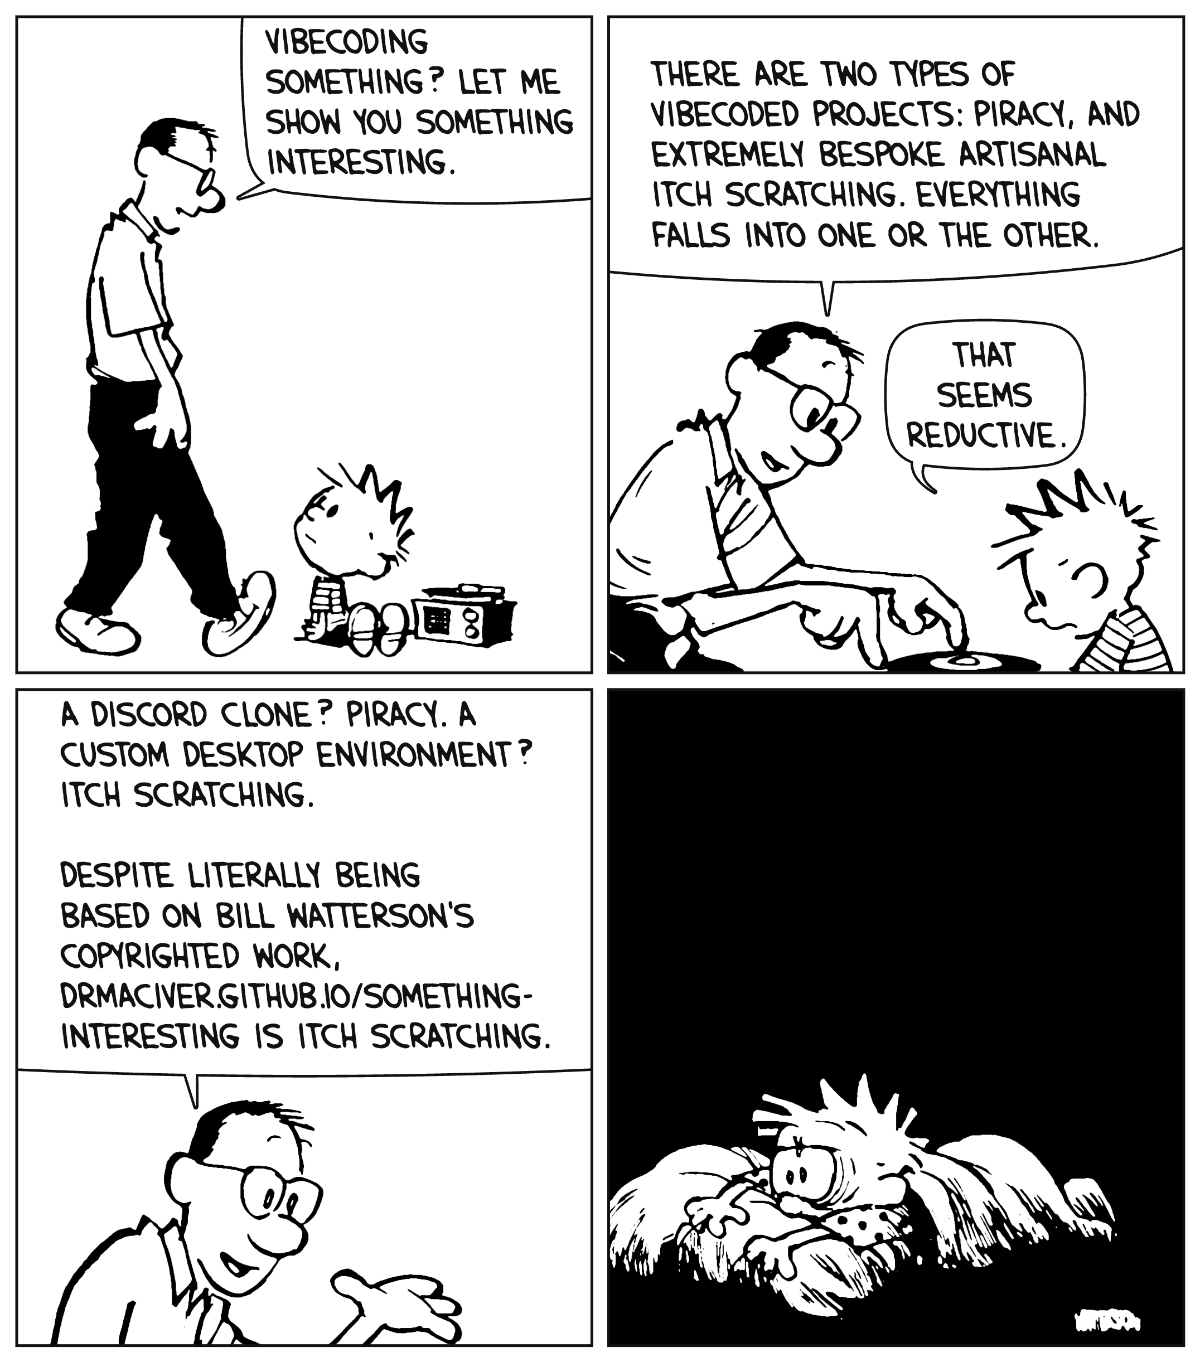
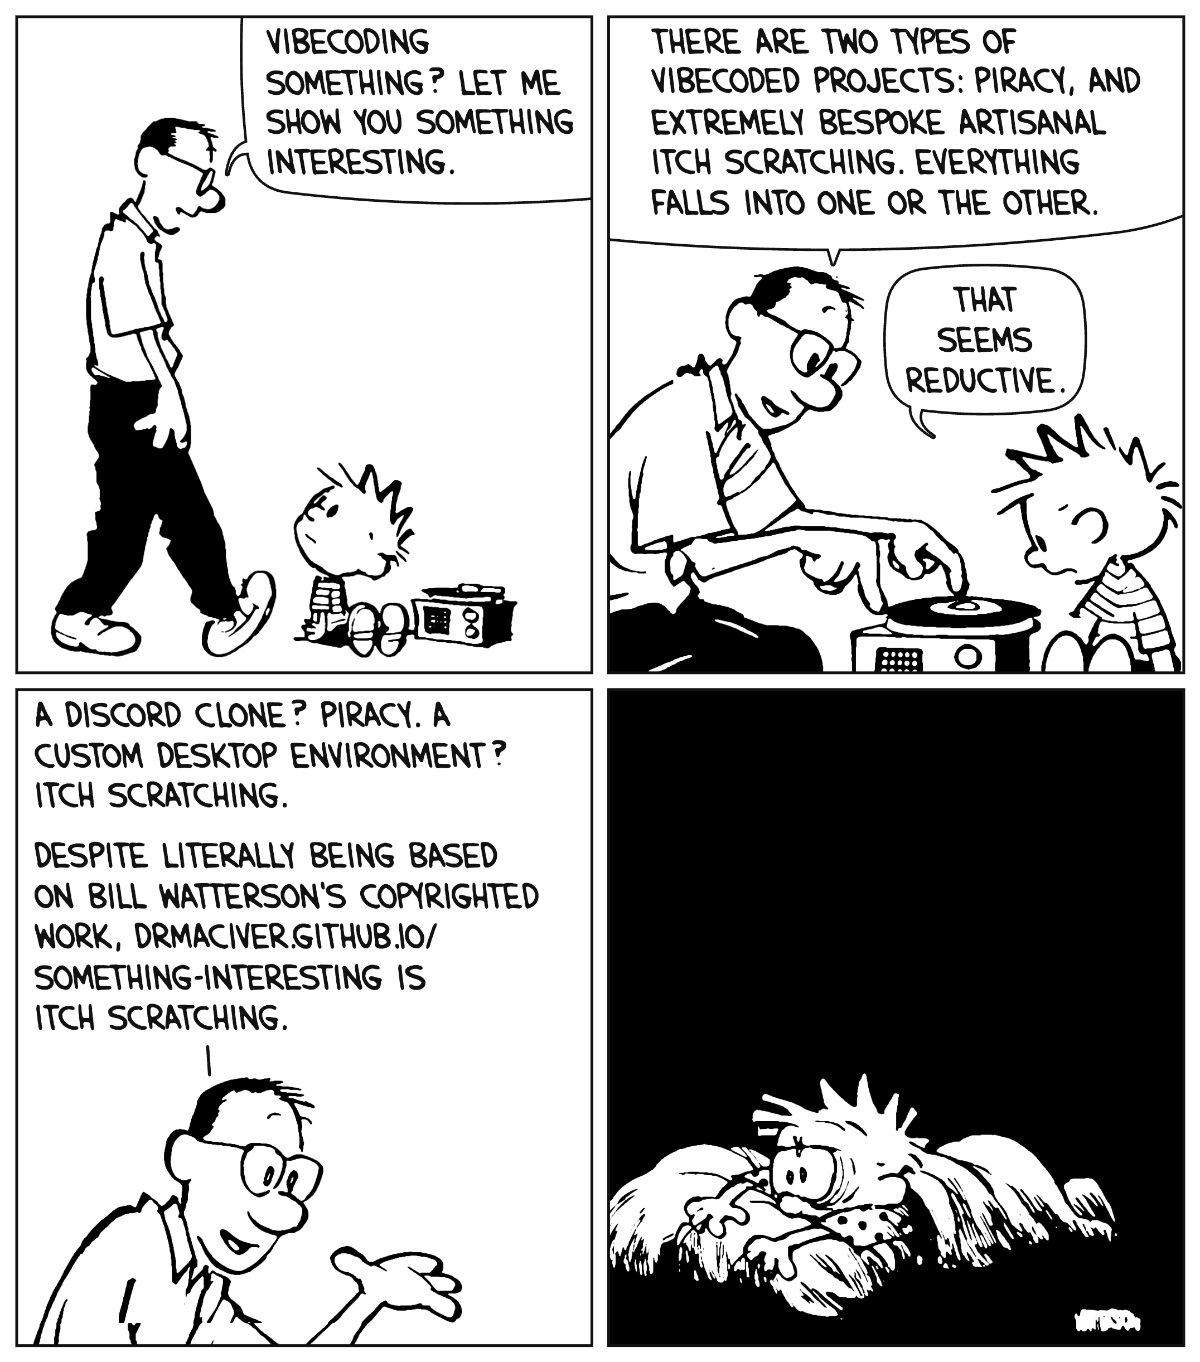
Editor: use the grafted drawings; mend panel 2's sleeve
The comic editor's panels now come from the same drawings as the
full-panel exports. tools/extensions/graft/editor.py cuts the 1-bit
extensions build_assets.py reads from the exports, so panel 1 has its
heel, and panels 2 and 3 show the whole kneeling scene: to the sides as
they widen, and below as far as the lettering leaves room. Panel 2
gains room below, as panel 3 had, and both get more room at the sides.

Panel 2's near sleeve had a line running down the crop's edge, which
pasting the scan back sliced lengthways. graft.push_out now moves such
lines clear of the crop.

The link preview is redrawn from the new art.

diff --git a/panels.html b/panels.html
@@ -8,9 +8,9 @@
 <p class="details">2134 × 2066 pixels · original-crop agreement: 100% · <a href="assets/full-panels/panel1.png?v=e65c87b19e" download="panel1.png">Download PNG</a> · <a href="assets/full-panels/panel1.png?v=e65c87b19e" target="_blank" rel="noopener">Open full size</a></p>
 <label><input class="show-source" type="checkbox"> Show original crop overlay</label>
 <div class="scroll"><div class="stage" style="--native-width:2134px"><img class="complete" src="assets/full-panels/panel1.png?v=e65c87b19e" width="2134" height="2066" alt="Completed comic panel 1 without dialogue" loading="lazy"><img class="source" src="assets/full-panels/original1.png" style="left:23.430178069353328%;top:0.0%;width:76.56982193064667%" width="1634" height="2066" alt="Original crop of panel 1" hidden></div></div></section><section id="panel-2"><h2>Panel 2</h2><p>Dad kneels and sets the record on the player. Everything outside the scanned crop (his back, legs and shoe, the player, the rest of Calvin) comes from a whole-scene drawing by Codex's image generation, fitted to the scan so its lines carry on from Watterson's. His shoe is Watterson's own from panel 1, mirrored and enlarged to this panel's scale.</p>
-<p class="details">3382 × 3060 pixels · original-crop agreement: 100% · <a href="assets/full-panels/panel2.png?v=dfc0afa81c" download="panel2.png">Download PNG</a> · <a href="assets/full-panels/panel2.png?v=dfc0afa81c" target="_blank" rel="noopener">Open full size</a></p>
+<p class="details">3382 × 3060 pixels · original-crop agreement: 100% · <a href="assets/full-panels/panel2.png?v=e9c291b5ae" download="panel2.png">Download PNG</a> · <a href="assets/full-panels/panel2.png?v=e9c291b5ae" target="_blank" rel="noopener">Open full size</a></p>
 <label><input class="show-source" type="checkbox"> Show original crop overlay</label>
-<div class="scroll"><div class="stage" style="--native-width:3382px"><img class="complete" src="assets/full-panels/panel2.png?v=dfc0afa81c" width="3382" height="3060" alt="Completed comic panel 2 without dialogue" loading="lazy"><img class="source" src="assets/full-panels/original2.png" style="left:26.611472501478413%;top:0.0%;width:46.77705499704317%" width="1582" height="2060" alt="Original crop of panel 2" hidden></div></div></section><section id="panel-3"><h2>Panel 3</h2><p>Dad kneels and gestures towards Calvin. Everything outside the scanned crop (his body below the chest, Calvin and the player) comes from a whole-scene drawing by Codex's image generation, fitted to the scan so its lines carry on from Watterson's. His shoe is Watterson's own from panel 1, mirrored and enlarged to this panel's scale.</p>
+<div class="scroll"><div class="stage" style="--native-width:3382px"><img class="complete" src="assets/full-panels/panel2.png?v=e9c291b5ae" width="3382" height="3060" alt="Completed comic panel 2 without dialogue" loading="lazy"><img class="source" src="assets/full-panels/original2.png" style="left:26.611472501478413%;top:0.0%;width:46.77705499704317%" width="1582" height="2060" alt="Original crop of panel 2" hidden></div></div></section><section id="panel-3"><h2>Panel 3</h2><p>Dad kneels and gestures towards Calvin. Everything outside the scanned crop (his body below the chest, Calvin and the player) comes from a whole-scene drawing by Codex's image generation, fitted to the scan so its lines carry on from Watterson's. His shoe is Watterson's own from panel 1, mirrored and enlarged to this panel's scale.</p>
 <p class="details">3774 × 3660 pixels · original-crop agreement: 100% · <a href="assets/full-panels/panel3.png?v=b715549c27" download="panel3.png">Download PNG</a> · <a href="assets/full-panels/panel3.png?v=b715549c27" target="_blank" rel="noopener">Open full size</a></p>
 <label><input class="show-source" type="checkbox"> Show original crop overlay</label>
 <div class="scroll"><div class="stage" style="--native-width:3774px"><img class="complete" src="assets/full-panels/panel3.png?v=b715549c27" width="3774" height="3660" alt="Completed comic panel 3 without dialogue" loading="lazy"><img class="source" src="assets/full-panels/original3.png" style="left:23.84737678855326%;top:0.0%;width:41.70641229464759%" width="1574" height="2060" alt="Original crop of panel 3" hidden></div></div></section><section id="panel-4"><h2>Panel 4</h2><p>Original night scene with the existing completed left side of the bed.</p>

diff --git a/index.html b/index.html
@@ -18,13 +18,13 @@
     <meta property="og:url" content="https://drmaciver.github.io/something-interesting/" />
     <meta
       property="og:image"
-      content="https://drmaciver.github.io/something-interesting/assets/preview.png?v=611769af97"
+      content="https://drmaciver.github.io/something-interesting/assets/preview.png?v=61d3377329"
     />
     <meta property="og:image:alt" content="Calvin's dad explaining that there are two types of vibecoded projects." />
     <meta name="twitter:card" content="summary_large_image" />
     <meta
       name="twitter:image"
-      content="https://drmaciver.github.io/something-interesting/assets/preview.png?v=611769af97"
+      content="https://drmaciver.github.io/something-interesting/assets/preview.png?v=61d3377329"
     />
     <link rel="stylesheet" href="style.css?v=48b0bddf58" />
     <script type="importmap">

diff --git a/tools/extensions/graft/graft.py b/tools/extensions/graft/graft.py
@@ -12,7 +12,9 @@ fitted to the scan here instead:
 2. `flow` measures how the candidate still differs from the scan inside
    the crop and bends it to agree, fading the bend out away from the crop.
 3. `snap` slides the candidate along each edge of the crop so its lines
-   leave the crop exactly where the scan's do.
+   leave the crop exactly where the scan's do; `push_out` moves clear of
+   the crop any line the candidate draws along its edge, which pasting the
+   scan back would otherwise slice lengthways.
 4. `reink` gives what is left of the candidate the scan's line weight, cuts
    it to the scan's 1-bit grid and smooths it as the scan was smoothed.
 
@@ -415,6 +417,60 @@ def snap(scan, warped, frame, reach=14, depth=50.0, solid_reach=110):
     return field, int(counts[0]), int(counts[1]), int(counts[2])
 
 
+def runs(line, least):
+    """[(start, end)] of the stretches of a 1-D boolean profile at least
+    `least` long."""
+    step = np.diff(np.concatenate([[0], line.astype(np.int8), [0]]))
+    return [(a, b) for a, b in zip(np.flatnonzero(step > 0), np.flatnonzero(step < 0)) if b - a >= least]
+
+
+def push_out(scan, warped, frame, weight, least=24, ease=12, depth=40.0):
+    """A field that moves clear of the crop any line the candidate draws
+    *along* its edge, where the scan has only paper: pasting the scan back
+    would slice such a line lengthways (a sleeve hem drawn down the crop's
+    side, say). It is slid outward until it stands whole just outside,
+    easing to nothing at the ends of the stretch, where real lines cross."""
+    h, w = scan.shape
+    left = frame.left
+    cand = warped > 0.5
+    field = np.zeros((2,) + warped.shape, np.float32)
+    rows, cols = np.mgrid[0:warped.shape[0], 0:warped.shape[1]]
+    # per side: the scan along its edge, and the candidate going outward
+    # and inward from that edge
+    found = []
+    inner = cand[:h, left:left + w]
+    if frame.left:
+        found.append((scan[:, :3].any(1), cand[:h, left - 40:left][:, ::-1], inner[:, :40], 'left'))
+    if frame.right:
+        found.append((scan[:, -3:].any(1), cand[:h, left + w:left + w + 40], inner[:, -40:][:, ::-1], 'right'))
+    if frame.below:
+        found.append((scan[-3:].any(0), cand[h:h + 40, left:left + w].T, inner[-40:][::-1].T, 'below'))
+
+    def reach(profile):
+        """How far the ink runs from the edge, along the stretch (median)."""
+        return float(np.median(np.where(profile.all(1), profile.shape[1], profile.argmin(1))))
+
+    for paper, outward, inward, side in found:
+        paper = ~ndimage.binary_dilation(paper, iterations=2)
+        for a, b in runs(outward[:, 0] & paper, least):
+            showing, hidden = reach(outward[a:b]), reach(inward[a:b])
+            if showing + hidden > 2.2 * weight:
+                continue  # a solid black, not a line
+            shift = hidden + max(3.0, weight / 2)  # what the crop hides of it, and some air
+            along = np.arange(len(paper))
+            taper = np.clip(np.minimum(along - a, b - along) / ease, 0, 1)
+            if side == 'below':
+                away = np.maximum(rows - h, 0)
+                field[0] -= shift * taper[np.clip(cols - left, 0, w - 1)] * np.exp(-away / depth) * (rows >= h - 1)
+            else:
+                edge = left if side == 'left' else left + w
+                away = np.abs(cols - edge)
+                outside = cols < edge if side == 'left' else cols >= edge
+                sign = 1 if side == 'left' else -1
+                field[1] += sign * shift * taper[np.clip(rows, 0, h - 1)] * np.exp(-away / depth) * outside * (rows < h)
+    return field
+
+
 # --- 4. the scan's ink ------------------------------------------------------
 
 def line_weight(ink):
@@ -544,6 +600,10 @@ def graft(scan_image, cand_image, frame, scales=None):
     far = snapped(110)
     if far[3] < cut and far[2] <= fit_warped + 0.15:
         field, warped, fit_warped, cut = far
+    outside = np.ones(shape, bool)
+    outside[crop] = False
+    field = field + push_out(scan, warped, frame, line_weight((warped > 0.5) & outside))
+    warped = warp(placed, field)
     _, matched, lost, extra = snap(scan, warped, frame)
 
     # again at twice the size, where the ink is finally cut
@@ -552,8 +612,6 @@ def graft(scan_image, cand_image, frame, scales=None):
         np.asarray(Image.fromarray(f).resize(big_shape[::-1], Image.BILINEAR)) * 2 for f in field])
     coverage = ndimage.gaussian_filter(warp(place(cand, params, big_shape, origin, zoom=2), big_field), 1.0)
 
-    outside = np.ones(shape, bool)
-    outside[crop] = False
     weight_scan = line_weight(scan)
     before = line_weight((warped > 0.5) & outside)
     ink = reink(coverage, weight_scan, outside)

diff --git a/tools/build_assets.py b/tools/build_assets.py
@@ -43,8 +43,9 @@ EXTENSIONS = ROOT / "tools" / "extensions"
 PANELS = [
     {
         "box": (62, 1870, 879, 2903),
-        # Dad's back and trailing leg run off the left edge; the rest of him
-        # is drawn in tools/extensions/panel1-left.png.
+        # Dad's trailing heel runs off the left edge; the rest of it is in
+        # tools/extensions/panel1-left.png. (The extensions of panels 1 to 3
+        # are cut from the full-panel exports by tools/extensions/graft/editor.py.)
         "extend": {"left": EXTEND // 2, "right": EXTEND},
         "extensions": {"left": "panel1-left.png"},
         # Dad's balloon and lettering. Only ink lying entirely inside these
@@ -58,10 +59,13 @@ PANELS = [
     },
     {
         "box": (926, 1877, 1717, 2907),
-        # Dad runs off the left edge and Calvin off the right; the rest of
-        # them is drawn in tools/extensions/panel2-{left,right}.png.
-        "extend": {"left": EXTEND // 2, "right": EXTEND},
-        "extensions": {"left": "panel2-left.png", "right": "panel2-right.png"},
+        # Dad runs off the left edge, Calvin off the right and both off the
+        # foot: the rest of the scene, Dad kneeling by the record player and
+        # Calvin sitting, is in tools/extensions/panel2-{left,right,below}.png,
+        # the part below shown when there's room.
+        "extend": {"left": EXTEND, "right": EXTEND, "below": 260},
+        "extensions": {"left": "panel2-left.png", "right": "panel2-right.png",
+                       "below": "panel2-below.png"},
         # Both balloons and their lettering, steering around Dad's head and
         # Calvin's hair.
         "erase": [[(924, 1877), (1720, 1877), (1720, 2545), (1612, 2545),
@@ -89,12 +93,14 @@ PANELS = [
     },
     {
         "box": (1763, 1877, 2550, 2907),
-        # Dad's shoulder runs off the left edge; the rest of it is drawn in
-        # tools/extensions/panel3-left.png. Below is the rest of the scene,
-        # Dad down on one knee and Calvin on the floor
-        # (tools/extensions/panel3-below.png), shown when there's room.
-        "extend": {"left": EXTEND // 2, "right": EXTEND, "below": 800},
-        "extensions": {"left": "panel3-left.png", "below": "panel3-below.png"},
+        # Dad's shoulder runs off the left edge and the rest of him off the
+        # foot: the rest of the scene, Dad kneeling and Calvin on the floor
+        # with the record player between them, is in
+        # tools/extensions/panel3-{left,right,below}.png, the part below
+        # shown when there's room.
+        "extend": {"left": 320, "right": 480, "below": 640},
+        "extensions": {"left": "panel3-left.png", "right": "panel3-right.png",
+                       "below": "panel3-below.png"},
         "erase": [[(1755, 1877), (2550, 1877), (2550, 2620), (2220, 2620),
                    (2220, 2460), (1755, 2460)]],
         "speakers": {"dad": (2010, 2770)},

diff --git a/tools/extensions/graft/editor.py b/tools/extensions/graft/editor.py
@@ -1,0 +1,58 @@
+"""Cut the editor's panel extensions from the full-panel exports.
+
+    uv run tools/extensions/graft/editor.py
+
+The comic editor builds its panels in `tools/build_assets.py` from the scan
+plus 1-bit extensions on the scan's grid, `tools/extensions/panelN-SIDE.png`,
+of the sizes each panel's `extend` gives. This writes those files for
+panels 1 to 3 from `assets/full-panels/panelN.png`, so the editor shows the
+same drawings as the exports. Run `tools/build_assets.py` afterwards.
+"""
+import sys
+from pathlib import Path
+
+import numpy as np
+from PIL import Image
+
+sys.path.insert(0, str(Path(__file__).resolve().parent))
+import build  # noqa: E402
+from graft import build_assets as b  # noqa: E402
+
+
+def scan_grid_ink(number):
+    """The export as 1-bit ink on the scan's grid."""
+    image = np.asarray(Image.open(build.OUT / f'panel{number}.png').convert('L')) < 128
+    h, w = image.shape[0] // 2 * 2, image.shape[1] // 2 * 2
+    return image[:h, :w].reshape(h // 2, 2, w // 2, 2).mean((1, 3)) >= 0.5
+
+
+def extensions(number):
+    """{side: ink} for the panel, sized as build_assets expects."""
+    panel = b.PANELS[number - 1]
+    widths = panel['extend']
+    x0, _, x1, y1 = (v // 2 for v in build.scan_box(number))
+    ink = scan_grid_ink(number)
+    # room all round, in case the editor shows more than the export holds
+    pad = 1000
+    ink = np.pad(ink, pad)
+    x0, x1, y0, y1 = x0 + pad, x1 + pad, pad, y1 + pad
+    left, right, below = widths['left'], widths['right'], widths.get('below', 0)
+    cut = {'left': ink[y0:y1, x0 - left:x0], 'right': ink[y0:y1, x1:x1 + right],
+           'below': ink[y1:y1 + below, x0 - left:x1 + right]}
+    drawn = ink.copy()
+    drawn[y0:y1 + below, x0 - left:x1 + right] = False
+    if drawn.any():
+        raise ValueError(f'panel {number}: its extend sizes leave some of the drawing out')
+    return {side: cut[side] for side in panel.get('extensions', {})}
+
+
+def main():
+    for number in (1, 2, 3):
+        names = b.PANELS[number - 1]['extensions']
+        for side, ink in extensions(number).items():
+            Image.fromarray(~ink).convert('1').save(b.EXTENSIONS / names[side], optimize=True)
+            print(names[side], ink.shape[::-1], 'ink' if ink.any() else 'blank')
+
+
+if __name__ == '__main__':
+    main()

diff --git a/tests/test_graft.py b/tests/test_graft.py
@@ -211,3 +211,30 @@ def test_patch_takes_only_the_part_that_was_redrawn():
     assert not mask[:200].any()                            # the line elsewhere was left alone
     assert (before[~mask] == after[~mask]).all()           # and so was everything outside the part
     assert not mask[:, 500:].any()
+
+
+def test_a_line_drawn_along_the_crop_s_edge_is_moved_clear_of_it():
+    """The drawing has a line running down the crop's left edge, half in
+    and half out (a sleeve hem, say), where the scan has only paper. Pasting
+    the scan back would slice it lengthways; it should stand whole just
+    outside the crop instead."""
+    frame = graft.Frame(left=100, right=0, below=0)
+    scan = np.zeros((300, 200), bool)
+    scan[60:68] = scan[220:228] = True             # two lines that cross the edge
+    drawing = np.zeros((300, 300), np.float32)
+    drawing[60:68] = drawing[220:228] = 1
+    drawing[60:228, 96:104] = 1                    # the hem, centred on the edge
+    solid = drawing.copy()
+    solid[100:180, 40:104] = 1                     # in another drawing, a black cut by the crop
+
+    def pushed(candidate):
+        return graft.warp(candidate, graft.push_out(scan, candidate, frame, weight=8.0)) > 0.5
+
+    before, after = drawing > 0.5, pushed(drawing)
+    middle = slice(90, 200)                        # between the crossing lines
+    assert before[middle, 98:100].all()            # sliced: ink right up to the crop
+    assert not after[middle, 98:100].any()         # now there is air beside the crop
+    assert (after[middle, 60:100].sum(1) >= 7).all()   # and the hem is whole (it was 8 wide)
+    assert after[64, 90:100].all() and after[224, 90:100].all()   # the crossing lines still arrive
+    # a solid black is not a line: it is left for `snap`
+    assert np.array_equal(pushed(solid), solid > 0.5)

diff --git a/README.md b/README.md
@@ -86,17 +86,17 @@ tags if it isn't.
   solid blacks (Dad's trousers, the night in panel 4) are only in the
   scan's low resolution background layer, so they're merged in from there.
   Panels can widen to any width, so wherever the art runs off a panel's
-  edge it is finished off: Dad's back and trailing leg in panel 1
-  (`tools/extensions/panel1-left.png`), Dad kneeling by the record player and the
-  rest of Calvin in panel 2 (`tools/extensions/panel2-{left,right}.png`), Dad's
-  shoulder in panel 3 (`tools/extensions/panel3-left.png`) and, below it,
-  the whole scene of Dad down on one knee and Calvin on the floor
-  (`tools/extensions/panel3-below.png`, shown as far as the lettering
-  leaves room), and the far end
-  of Calvin's bed in panel 4 (`tools/extensions/panel4-left.png`), drawn by
-  Codex's image generation
-  from the panel and thresholded to the scan's 1-bit ink so that they're
-  smoothed like the rest. Beyond that the panels are plain background, as
+  edge it is finished off: Dad's trailing heel in panel 1, and in panels 2
+  and 3 the whole scene the close-ups leave out, Dad kneeling by the record
+  player with Calvin sitting on the floor (shown to the sides when a panel
+  widens, and below as far as the lettering leaves room). These come from
+  the [full-panel artwork](tools/extensions/graft/README.md): whole-scene
+  drawings by Codex's image generation, fitted to the scan in code, from
+  which `tools/extensions/graft/editor.py` cuts the 1-bit extensions
+  `tools/extensions/panel{1,2,3}-*.png`. The far end of Calvin's bed in
+  panel 4 (`tools/extensions/panel4-left.png`) is an earlier Codex drawing.
+  All are on the scan's own grid, so they're smoothed like the rest.
+  Beyond the artwork the panels are plain background, as
   far as they need to go; panel 4's bed stays in the middle. Watterson's
   signature is cut out of panel 4 (`assets/signature.png`) so it can sit in
   the corner however wide the panel is.

diff --git a/tools/extensions/graft/README.md b/tools/extensions/graft/README.md
@@ -33,6 +33,16 @@ uv run tools/extensions/graft/build.py
 uv run tools/extensions/reconstruction-v2/build_review.py
 ```
 
+The comic editor uses the same drawings: `editor.py` cuts its panel
+extensions (`tools/extensions/panelN-SIDE.png`) from the exports, and
+`tools/build_assets.py` builds the editor's panels from those:
+
+```sh
+uv run tools/extensions/graft/editor.py
+uv run tools/build_assets.py calvin-and-hobbes.pdf
+uv run tools/version_assets.py
+```
+
 `generate.py` needs the `codex` CLI. Each image takes a few minutes; four
 run at once. The scans come from `../reconstruction-v2/locked-N.png`.
 
